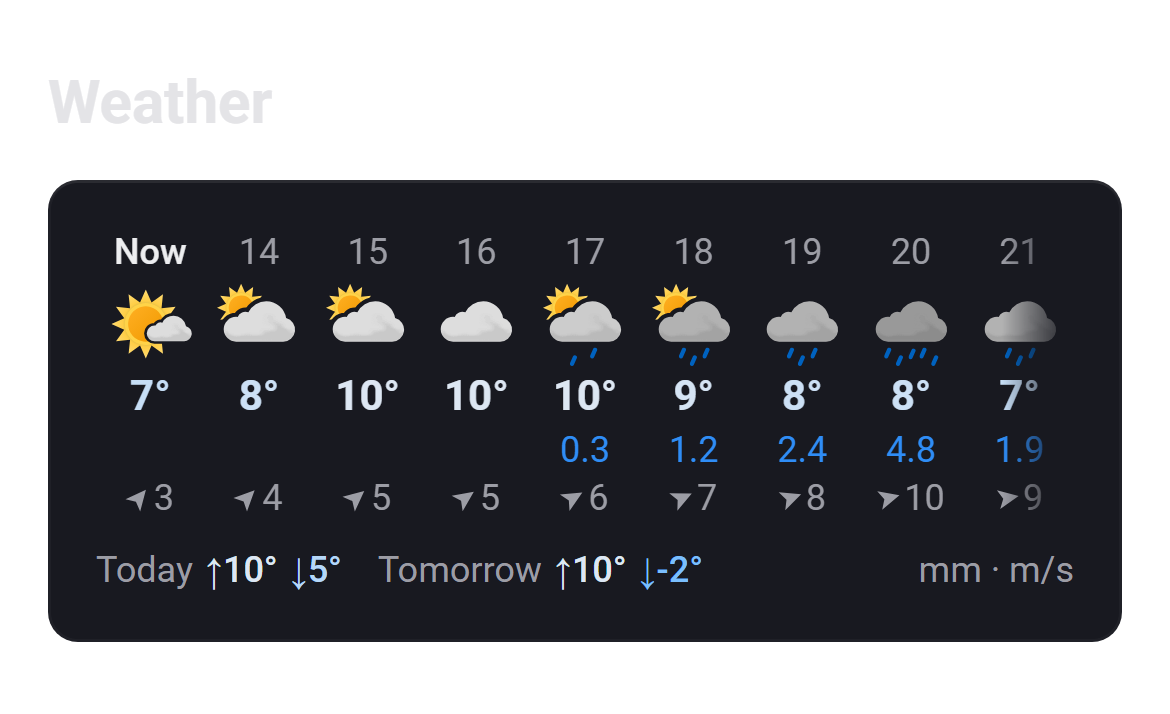
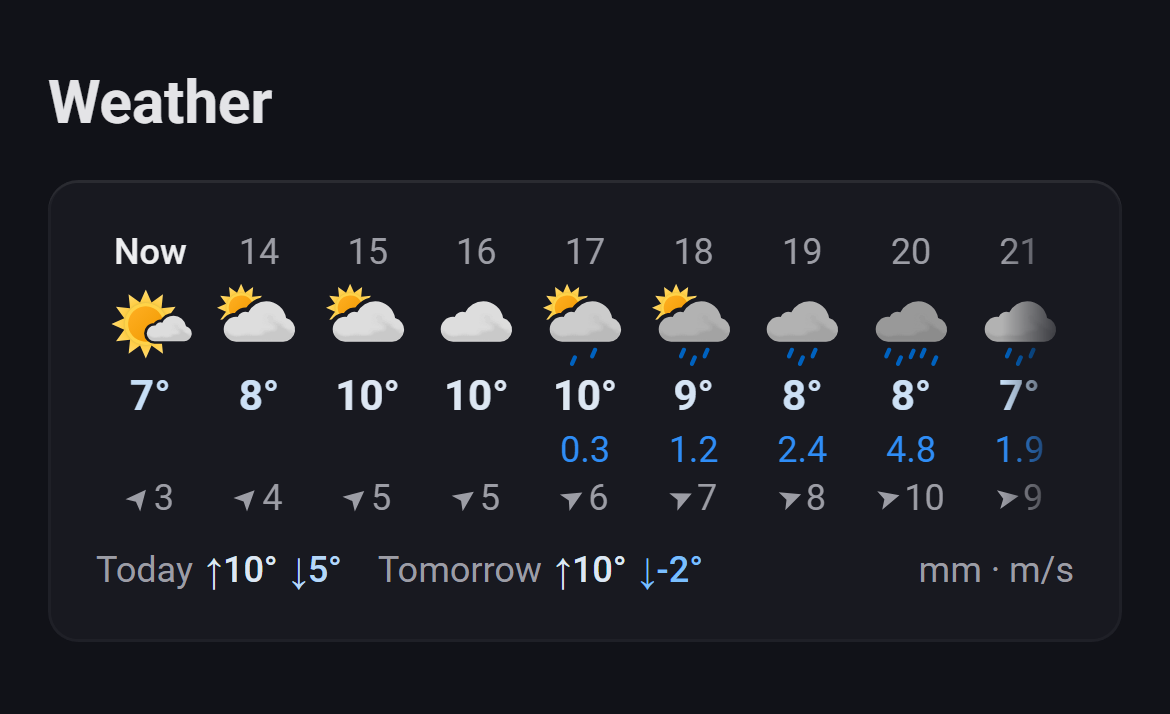
README screenshots: keep the dark dashboard background
The Quick Actions stylesheet now forces a transparent page, which turned the
screenshot page's background (and the weather screenshot) white.

Claude-Session: https://claude.ai/code/session_01SyovcttKtiz6m5BxKZ5K7n

diff --git a/dev/screenshots.html b/dev/screenshots.html
@@ -24,7 +24,8 @@
   <script src="mock-weather.js"></script>
   <script src="../temp/screenshot-icons.js" onerror="window.ICONS = {}"></script>
   <style>
-    html, body { background: #111218; }
+    /* !important: the Quick Actions stylesheet makes the page transparent (it is a transparent widget). */
+    html, body { background: #111218 !important; }
     body { width: 390px; margin: 0; padding: 20px 16px 24px; box-sizing: border-box; font-family: Roboto, sans-serif;
       display: flex; flex-direction: column; gap: 32px; }
     .shot { display: flex; flex-direction: column; gap: 12px; }
